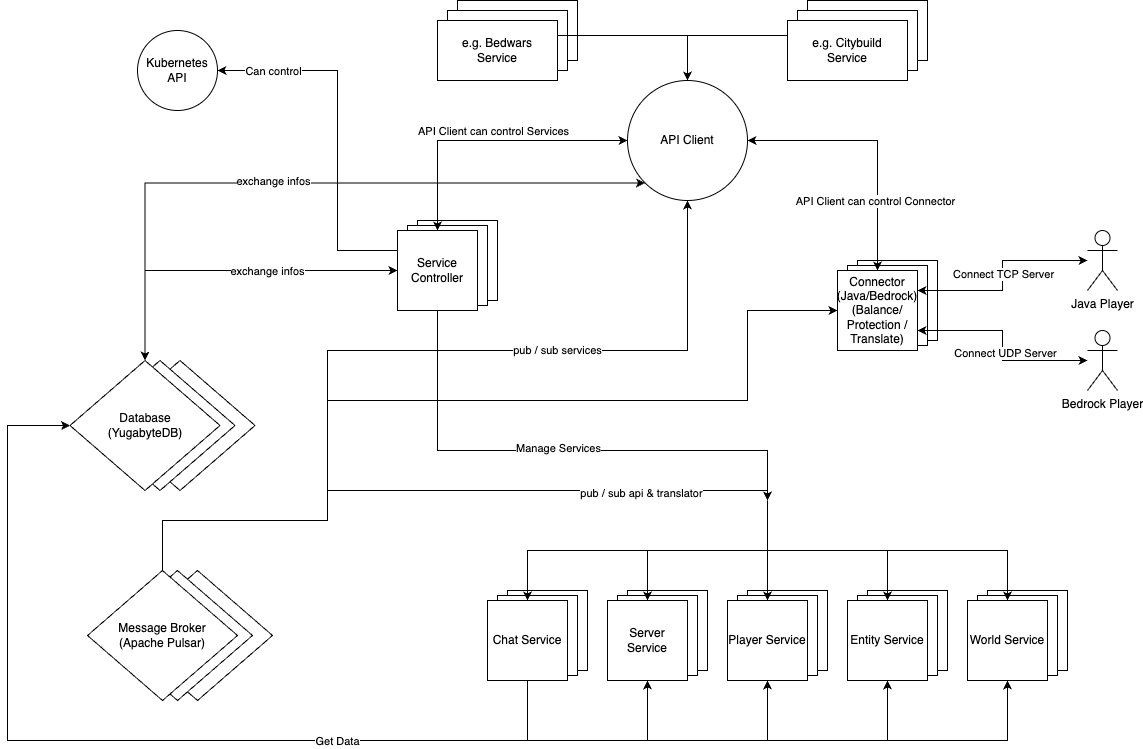
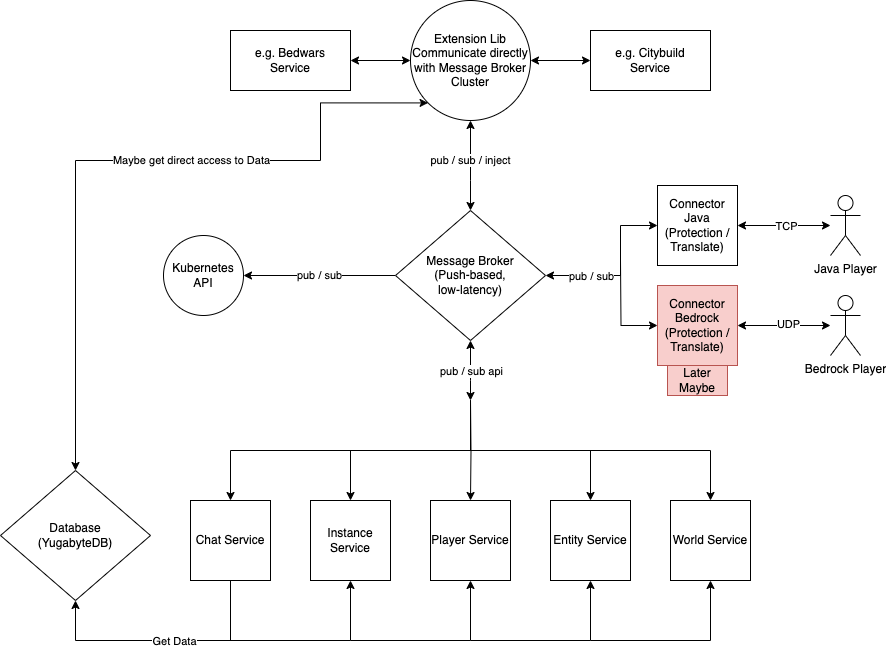
Update

diff --git a/README.md b/README.md
@@ -3,7 +3,7 @@
 
 The goal is to develop a new Minecraft server according to modern standards. This means stateless design pattern and a implementation which should go in the direction of reactive microservices.
 
-### Infos about the keywords:
+### Infos about the *fancy* keywords:
 
 - [Microservices](https://en.wikipedia.org/wiki/Microservices)
 - [SOA](https://en.wikipedia.org/wiki/Service-oriented_architecture)
@@ -12,49 +12,39 @@ The goal is to develop a new Minecraft server according to modern standards. Thi
 - [Stateless](https://en.wikipedia.org/wiki/Service_statelessness_principle)
 
 ### Microservices trade-offs
-The Notchain Minecraft server is not microservice or stateless, so the Minecraft client is not designed that way. That's why we have to change some things from the basic idea of microservices to SOA (service-oriented architecture).
+The Notchain Minecraft server is not microservice or stateless, so the Minecraft client is not designed that way. That's why we have to mix SOA and microservices. 
 
 ### Stateless
-Important Information: Everything runs stateless. No states. Only the database knows something.
+Important: Everything runs stateless. Only the database knows.
 
 ### Plugins
 Problems with a decentralized minecraft server but a central plugin and our way around it:
-It is a small paradox to pull something apart only to make it centrally accessible again at the end. We have thought about this problem a lot and got stuck with our current solution. We don't have a direct connection between api, translator or mc services, this will only work through a message service like rabbitmq, we do this to continue the concept of asynchrony and not to introduce a complex system between client and server communication. 
+It is a small paradox to pull something apart only to make it centrally accessible again at the end. We have thought about this problem a lot and got stuck with our current solution. We don't have a direct connection between api, translator or mc services, this will only work through a message service, we do this to continue the concept of asynchrony and not to introduce a complex system between client and server communication. 
 
 
 ## Goals:
 + better performance usage as the normal minecraft server
-+ better security
-+ handle more players with less hardware
-+ more features, through better api architecture
-+ better api for plugins, concept in the direction of Minestorm
-+ imitate bigger servers, to be able to handle more players on the same server
-+ better use of resources (cpu, memory, disk)
-+ k8s deployment
++ better security, though security filtering in the first place
++ handle more players with less hardware, becuase of better scaling from different services
++ more features, through better api architecture, like minestom
++ able to handle hunderts or thousands players on the same world
++ (easy) k8s deployment :)
 
 Baisc idea for the technical stack:
 [TECHSTACK](./TECHSTACK.md)
 
 
-## Overviews:
-Basic idea overview:
-
-![Idea as a diagram](images/idea.png)
-
-
-Overview:
-
+## Overview:
 ![Overview](images/overview.png)
 
 Explaning the diffrent parts of the system:
 
 - Connector: Here will the minecraft client connect to the server. And translates the packet from java or bedrock to a universal format. And send it into the message service.
-- Message Service: The message service is the central point of the system. It will handle the communication between the api, the translator and the mc services.
-- MC Services: On the mc services runs all important stuff like the world, the player, the inventory, the crafting, the chat, the command etc. for a actual minecraft server.
-- API: The api is the interface between the services and the plugins.
+- Message Service: The message service is the central point of the system. It will handle the communication between the api, the connector and the mc services.
+- MC Services: On the mc services runs all important stuff like the world, the player, the inventory, the crafting, the chat, the command etc. for a actual minecraft server. Most things in a event driven way.
+- API: The api is the interface between the services and the *plugins*.
 
 More Explaning: 
 - [API](./software-parts/api.md)
 - [Services](./software-parts/services.md)
-- [Service Controller](./software-parts/service-controller.md)
 - [Connector](./software-parts/connector.md)

diff --git a/software-parts/services.md b/software-parts/services.md
@@ -3,7 +3,7 @@ Diffrent Services in Layercraft
 
 ## Game Services
 
-| Chat       | Entity          | World        | Player                    | Server               |
+| Chat       | Entity          | World        | Player                    | Instance             |
 |------------|-----------------|--------------|---------------------------|----------------------|
 | Commands   | Entity-Move     | Place-Blocks | Player-Interact           | General Server Stuff |
 | Chat       | Entity-Interact | Break-Blocks | Player-Move               |                      |
@@ -15,24 +15,31 @@ Diffrent Services in Layercraft
 ### Chat Service
 + pub / sub to connector and api client
 + is responsible for everything with the chat in minecraft, so: chat, tablist, scoreboard, commands etc.
++ works completly event driven
 
 ### Entity Service
-+ pub / sub to tra and api client
++ pub / sub to connector and api client
 + is responsible for everything with the entities in minecraft, so: entities, spawners, mobs, etc.
++ works completly event driven and have is own task system e.g. for entity movement
++ maybe split into more services, like: entity, entity-movement, entity-interact, etc.
 
 ### World Service
 + pub / sub to connector and api client
 + is responsible for everything with the world in minecraft, so: world, weather, time, blocks etc.
++ works completly event driven and have is own task system e.g. for redstone and block updates(like water, lava, etc.)
++ Cache read only worlds in redis or/and in service?
++ 3 diffrent world types: only read: lobby, only a read, no block update exist; read-only with write: bedwars, existing map where only the changes are written to the database; read and write: vanilla, where the whole world is written to the database, every chunk is a row and every block form that chunk is a column
++ maybe split into more services, like: world, weather, time, blocks, etc.
 
-### Server Service
+
+### Instance Service
 + pub / sub to connector and api client
-+ simulate the diffrent instances of the server
++ start and stop the instance, plugin management, graphql api, etc.
++ graphql api for the instance
+
 
 ### Player Service
 + pub / sub to connector and api client
 + is responsible for everything with the players in minecraft, so: players, health, inventory, etc.
-
-## Session Service
-+ communicate with the connector and api client
-+ communicate with the mojang session service or a own session service
-+ makes the entire login process from the client to the server
++ works completly event driven and have is own task system e.g. for player movement
++ maybe split into more services, like: player, player-movement, player-interact, etc.

diff --git a/software-parts/connector.md b/software-parts/connector.md
@@ -1,7 +1,6 @@
 # Connector
 
-+ this is the public connector for the minecraft client
-+ it is responsible for the connection between the minecraft client and the server
-+ first java edition later bedrock edition
++ this is the public connector for the minecraft client, and the only public interface
++ first java edition; maybe later bedrock edition
 + translate the packet from java or bedrock to a universal format. And send it into the message service.
-+ sends the login process to the session service
++ handels the login, handshake and status state, and handles the ping packet

diff --git a/TECHSTACK.md b/TECHSTACK.md
@@ -1,10 +1,10 @@
 ## Our TechStack
 
 - Kotlin (JVM)
+- vert.x (Framework)
 - Docker (Containerization)
 
 ## Other Software
 - Database (YugabyteDB -> PostgreSQL & Cassandra)
-- In Memory Data
-- Message Service (Apache Pulsar)
+- Message Service (RabbitMQ)
 - k8s (Containerization)

diff --git a/software-parts/api.md b/software-parts/api.md
@@ -2,6 +2,5 @@
 
 ## API Client
 + pub / sub tasks from / to services
-+ can controll services over server controller
-+ manage translator and connector
++ can inject into service pipelines
 + Is installed as libary in Game services like Bedwars, Vanilla, Lobby, etc.
